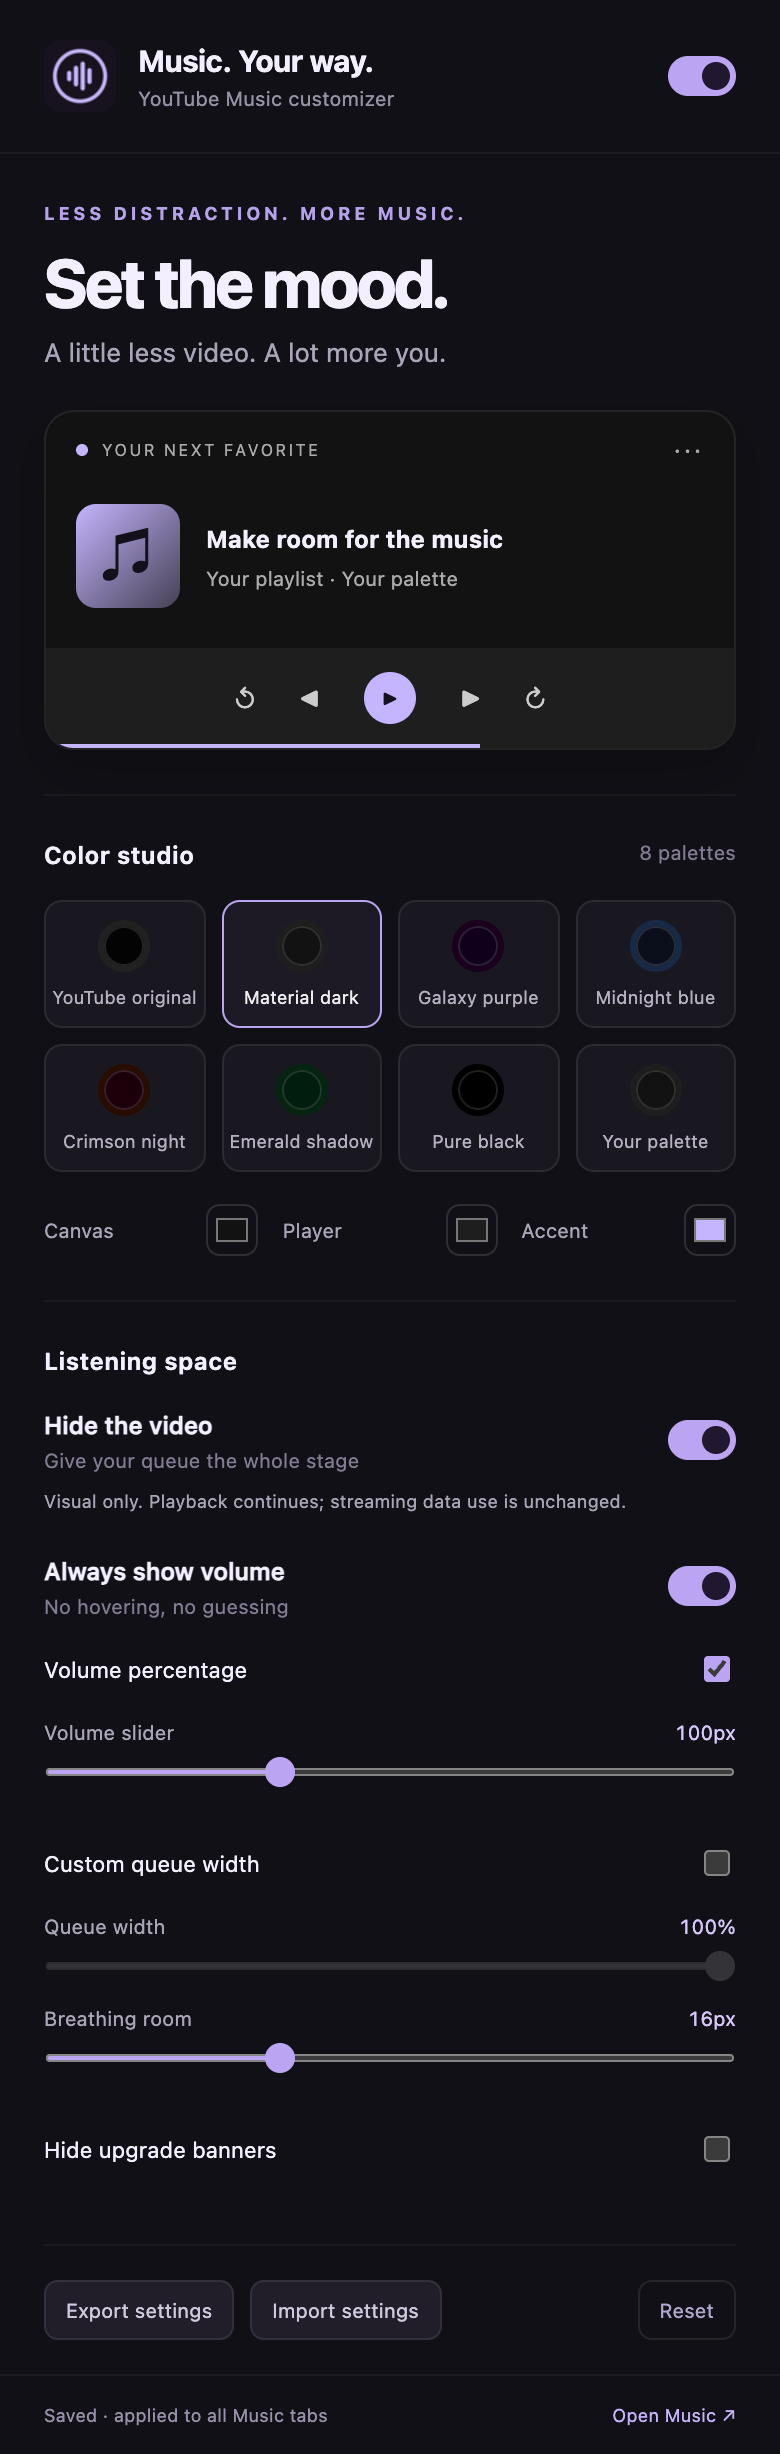
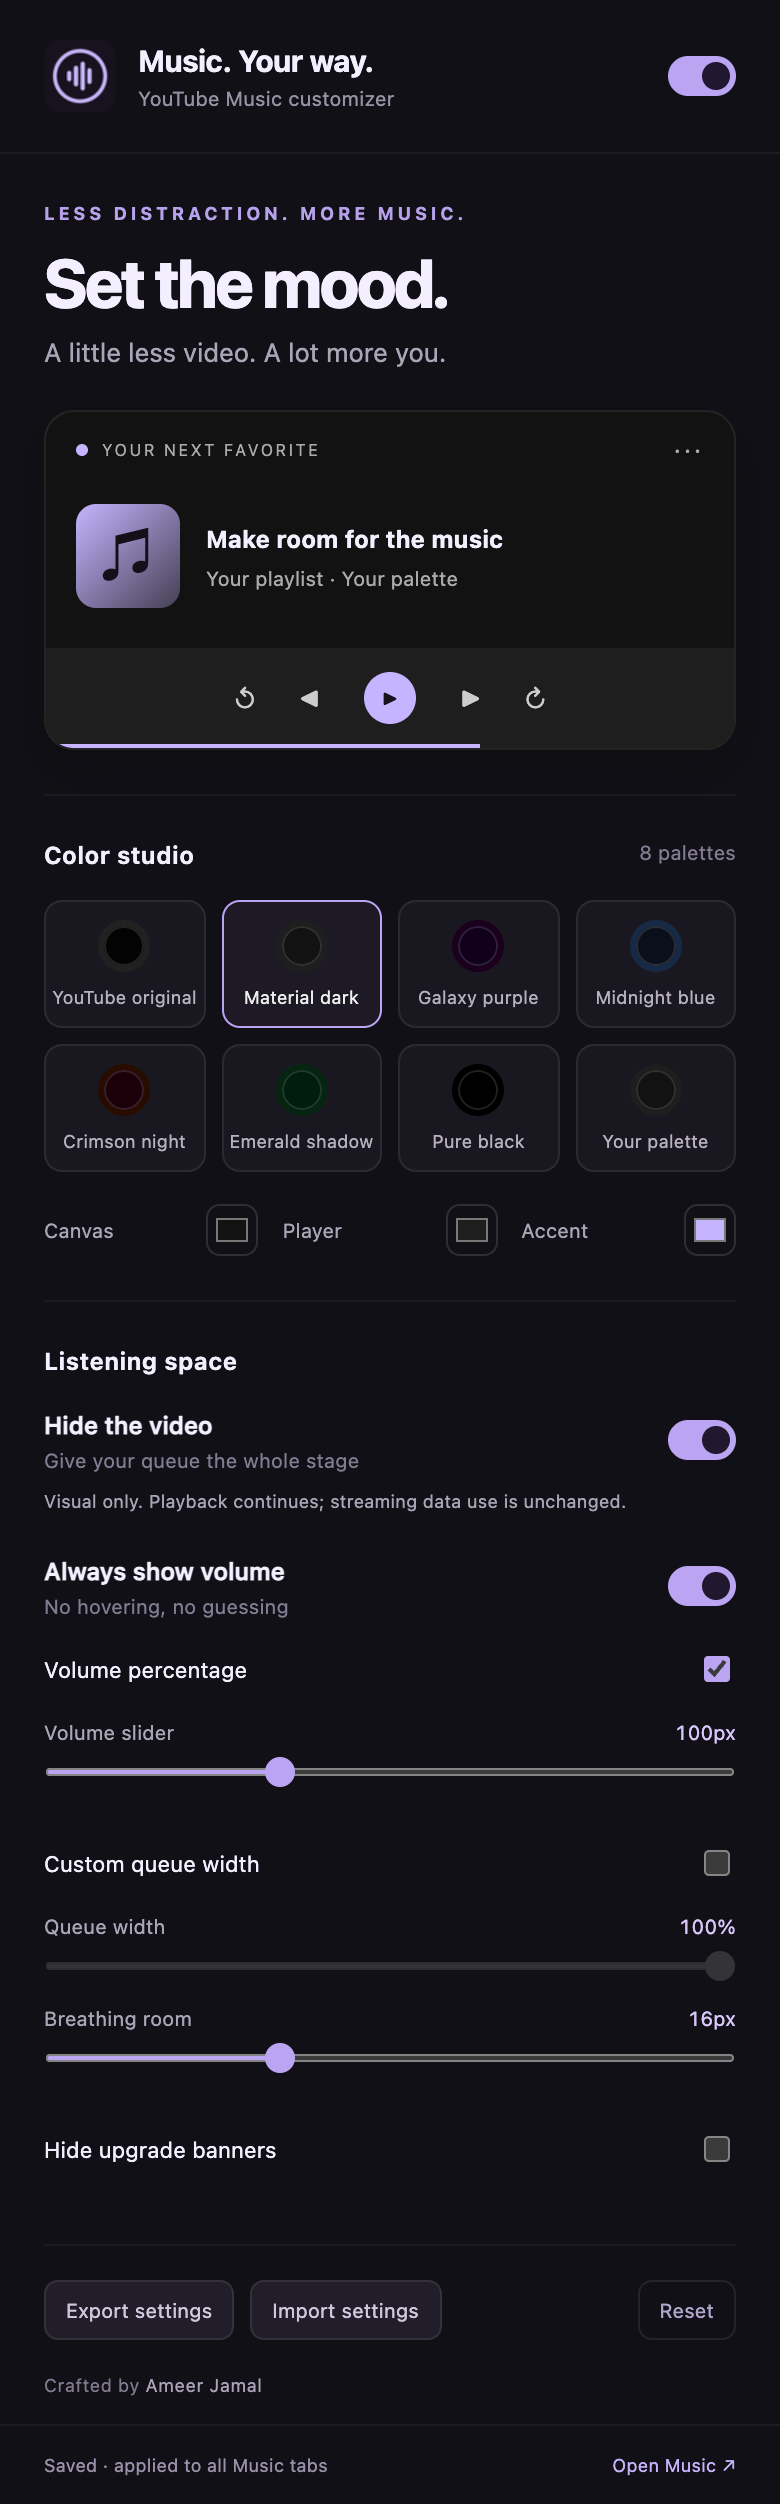
fix: unify theme surfaces and improve live volume readout

diff --git a/src/settings.js b/src/settings.js
@@ -91,8 +91,14 @@
     let css = "";
     if (s.theme !== "YoutubeMusicDefault")
       css += `
-   html { --ytmusic-general-background-a: ${palette.background} !important; --ytmusic-general-background-c: ${palette.background} !important; --ytmusic-brand-background-solid: ${palette.player} !important; --yt-spec-base-background: ${palette.background} !important; --yt-spec-brand-background-solid: ${palette.background} !important; --ytmusic-color-white1: #f5f5f5; }
-   body, ytmusic-app, ytmusic-app-layout > #content, ytmusic-nav-bar, ytmusic-tabs.stuck, ytmusic-player-page #side-panel, ytmusic-player-page #tabsContent, #sections.ytmusic-guide-renderer { background-color: ${palette.background} !important; }
+   html { --ytmusic-general-background-a: ${palette.background} !important; --ytmusic-general-background-b: ${palette.background} !important; --ytmusic-general-background-c: ${palette.background} !important; --ytmusic-general-background-d: ${palette.background} !important; --ytmusic-brand-background-solid: ${palette.player} !important; --yt-spec-base-background: ${palette.background} !important; --yt-spec-brand-background-solid: ${palette.background} !important; --ytmusic-color-white1: #f5f5f5; }
+   html, body, ytmusic-app, ytmusic-app-layout > #content, ytmusic-nav-bar, ytmusic-tabs.stuck, ytmusic-player-page #side-panel, ytmusic-player-page #tabsContent, #sections.ytmusic-guide-renderer { background-color: ${palette.background} !important; }
+   /* Keep one canvas under the native header and browse shelves. YouTube's
+      artwork-derived background layer otherwise ends at the first shelf. */
+   ytmusic-app-layout, ytmusic-browse-response, ytmusic-player-page, ytmusic-search-page, ytmusic-guide-renderer { background: ${palette.background} !important; }
+   ytmusic-app > #background, #background.ytmusic-app, ytmusic-app-layout #background, ytmusic-browse-response > #background, ytmusic-browse-response #background-gradient, ytmusic-browse-response .background-gradient, ytmusic-player-page #background { background: none !important; }
+   ytmusic-browse-response #header, ytmusic-browse-response #contents, ytmusic-browse-response ytmusic-carousel-shelf-renderer, ytmusic-player-page #tab-renderer, ytmusic-player-page #tabsContent, ytmusic-player-page #side-panel { background: transparent !important; }
+   ytmusic-nav-bar, ytmusic-tabs.stuck, ytmusic-guide-renderer #sections { background: ${palette.background} !important; }
    ytmusic-player-bar { background-color: ${palette.player} !important; }
    ytmusic-player-bar #progress-bar, ytmusic-player-bar .volume-slider { --paper-slider-active-color: ${palette.accent} !important; --paper-slider-knob-color: ${palette.accent} !important; }
    ::-webkit-scrollbar { width: 8px; height: 8px; } ::-webkit-scrollbar-thumb { background: ${palette.accent}66; border-radius: 12px; } ::-webkit-scrollbar-track { background: transparent; }
@@ -113,7 +119,7 @@
       css += `ytmusic-player-bar .volume-slider { opacity: 1 !important; pointer-events: auto !important; }`;
     css += `ytmusic-player-bar .volume-slider, ytmusic-player-bar .expand-volume-slider { width: ${s.volumeWidth}px !important; } ytmusic-player-bar #right-controls { width: auto !important; }`;
     if (s.showVolumePercentage)
-      css += `ytmusic-player-bar .volume-slider[aria-valuenow]::before { content: attr(aria-valuenow) '%'; position: absolute; left: -42px; color: #bababa; font-size: 12px; } ytmusic-player-bar .volume-slider { margin-left: 44px !important; }`;
+      css += `ytmusic-player-bar .ytm-volume-percentage { display: inline-flex; align-items: center; justify-content: flex-end; flex: 0 0 4ch; min-width: 4ch; margin-inline: 8px; color: var(--ytmusic-text-secondary, #bababa); font: 500 11px/1.2 system-ui, sans-serif; font-variant-numeric: tabular-nums; white-space: nowrap; pointer-events: none; }`;
     if (s.hidePromos)
       css += `ytmusic-mealbar-promo-renderer { display: none !important; }`;
     return css;

diff --git a/src/content.js b/src/content.js
@@ -2,8 +2,58 @@
   const style = document.createElement("style");
   style.id = "ytm-custom-themes";
   let current = YTM.defaults;
+  const readout = document.createElement("span");
+  readout.className = "ytm-volume-percentage";
+  readout.setAttribute("aria-hidden", "true");
+  function updateVolume() {
+    if (!current.enabled || !current.showVolumePercentage) {
+      readout.remove();
+      return;
+    }
+    const bar = document.querySelector("ytmusic-player-bar");
+    const slider = bar?.querySelector(
+      "#volume-slider, .volume-slider, .expand-volume-slider",
+    );
+    const source = slider?.hasAttribute("aria-valuenow")
+      ? slider
+      : slider?.querySelector("[aria-valuenow]");
+    const raw = source?.getAttribute("aria-valuenow");
+    const value =
+      raw === null || raw === undefined || raw.trim() === ""
+        ? NaN
+        : Number(raw);
+    if (!slider || !Number.isFinite(value)) {
+      readout.remove();
+      return;
+    }
+    const muted = bar.hasAttribute("muted") || slider.hasAttribute("muted");
+    const text = `${muted ? 0 : Math.round(Math.max(0, Math.min(100, value)))}%`;
+    if (readout.textContent !== text) readout.textContent = text;
+    // Insert beside the slider, never inside its custom-element internals.
+    if (
+      readout.parentElement !== slider.parentElement ||
+      slider.nextSibling !== readout
+    )
+      slider.after(readout);
+  }
+  let volumeScheduled = false;
+  const volumeObserver = new MutationObserver(() => {
+    if (volumeScheduled) return;
+    volumeScheduled = true;
+    requestAnimationFrame(() => {
+      volumeScheduled = false;
+      updateVolume();
+    });
+  });
+  volumeObserver.observe(document, {
+    subtree: true,
+    childList: true,
+    attributes: true,
+    attributeFilter: ["aria-valuenow", "muted", "class", "id"],
+  });
   function apply() {
     style.textContent = YTM.buildCss(current);
+    updateVolume();
     if (document.documentElement && !style.isConnected)
       document.documentElement.append(style);
   }

diff --git a/popup.html b/popup.html
@@ -122,6 +122,12 @@
         /><button id="reset" class="quiet">Reset</button>
       </section>
     </main>
+    <div class="signature">
+      Crafted by
+      <a href="https://github.com/Ameer-Jamal" target="_blank" rel="noopener"
+        >Ameer Jamal</a
+      >
+    </div>
     <footer>
       <span id="status" role="status" aria-live="polite"
         >Changes apply live</span

diff --git a/src/popup.js b/src/popup.js
@@ -39,6 +39,11 @@
     themes.append(button);
   }
   function render() {
+    if (settings.theme !== "UserDefined") {
+      const preset = YTM.presets[settings.theme];
+      for (const key of ["background", "player", "accent"])
+        settings[key] = preset[key];
+    }
     for (const key of Object.keys(YTM.defaults)) {
       const input = $(key);
       if (!input) continue;

diff --git a/popup.css b/popup.css
@@ -360,3 +360,13 @@ input:disabled {
     transition: none !important;
   }
 }
+
+.signature {
+  padding: 0 22px 14px;
+  color: #81798e;
+  font-size: 9px;
+  letter-spacing: 0.15px;
+}
+.signature a {
+  color: #aaa0b7;
+}

diff --git a/README.md b/README.md
@@ -1,8 +1,12 @@
 # YouTube Music - Hide Video & Custom Themes
 
+![Music. Your way. — by Ameer Jamal](docs/promotional/banner.png)
+
+[Download the latest release](https://github.com/Ameer-Jamal/youtube-music-hide-video-custom-themes/releases/latest) · [Report an issue](https://github.com/Ameer-Jamal/youtube-music-hide-video-custom-themes/issues)
+
 A focused YouTube Music experience, built from Ameer Jamal’s YouTube Music Transformer userstyle. Manifest V3, no background worker, no remote code, and only the storage permission.
 
-Eight palettes, custom canvas/player/accent colors, live updates across Music tabs, a full-width queue when video is hidden, always-visible volume, volume percentage, adjustable spacing, optional promo hiding, and validated JSON backups.
+Eight palettes, custom canvas/player/accent colors, live updates across Music tabs, a full-width queue when video is hidden, always-visible volume, a live, mute-aware volume percentage, adjustable spacing, optional promo hiding, and validated JSON backups.
 
 **Hide video is visual only:** playback continues and streaming data use is unchanged. It does not bypass YouTube Premium or force Song mode.
 
@@ -22,7 +26,7 @@ CI checks every push and pull request and produces an unpacked **Extension-Packa
 
 For the first release:
 
-1. Run `npm run build` and upload `dist/youtube-music-hide-video-custom-themes-v1.0.0.zip` to a **new** Chrome Web Store item. Complete the listing using [store copy](docs/STORE-LISTING.md), authentic screenshots, and the [privacy policy](docs/PRIVACY.md).
+1. Run `npm run build` and upload `dist/youtube-music-hide-video-custom-themes-v1.0.1.zip` to a **new** Chrome Web Store item. Complete the listing using [store copy](docs/STORE-LISTING.md), authentic screenshots, and the [privacy policy](docs/PRIVACY.md).
 2. Enable Chrome Web Store API access and authorize the same service-account setup used by your Material Dark extension for this publisher.
 3. Create the GitHub environment **Publishing Env**. Add `CWS_EXTENSION_ID` with the **new item’s ID**, `CWS_PUBLISHER_ID`, and `CWS_SERVICE_ACCOUNT_JSON` (raw JSON or base64). Never use your ChatGPT extension’s item ID here.
 4. Run **Actions → Release → Run workflow** after the item is ready for API updates. Store approval is controlled by Google.
@@ -35,9 +39,13 @@ No publishing credentials are included in this repository. Do not commit `.env` 
 
 Before store submission, check a real Music account: open the player queue and lyrics, toggle video hiding on/off, play/pause/skip, change volume, resize the window, navigate between pages, try each palette, and turn the extension off. Site markup can change independently of releases.
 
-## Popup preview
+## Your palette, your player
 
-![Extension popup](docs/screenshots/popup.png)
+![Six dark theme palette previews](docs/promotional/palettes.png)
+
+Palette previews use illustrative sample tracks. The controls below are captured from the actual extension popup.
+
+<img src="docs/screenshots/popup.png" alt="Extension popup with theme controls and a discreet Ameer Jamal credit" width="390">
 
 ## Source and license
 

diff --git a/docs/promotional/README.md b/docs/promotional/README.md
@@ -1,0 +1,11 @@
+# Promotional assets
+
+- `banner.png`: README artwork created with the built-in ImageGen tool (imagegen skill).
+- `palettes.png`: reproducible HTML/CSS palette previews rendered by `node scripts/promotional-assets.mjs`. These use illustrative sample tracks, not a live YouTube Music account.
+- `../screenshots/popup.png`: actual extension popup screenshot produced by the browser tests.
+
+## Banner prompt
+
+Use case: ads-marketing. Create a premium wide landscape README promotional banner for the browser extension YouTube Music - Hide Video & Custom Themes. Dark charcoal background, flowing sculptural lavender sound-wave ribbons on the right with subtle emerald and midnight-blue accents, sophisticated music-inspired abstract 3D artwork, restrained editorial typography on left. Exact main text: "Music. Your way." Smaller text: "Hide video. Find your palette." Tiny professional credit: "by Ameer Jamal". Clean generous negative space, elegant and polished, no fake UI, no YouTube logo, no headphones, no other text. Wide composition approximately 2:1.
+
+Use genuine installed-extension screenshots of YouTube Music for the Chrome Web Store's product screenshots.
